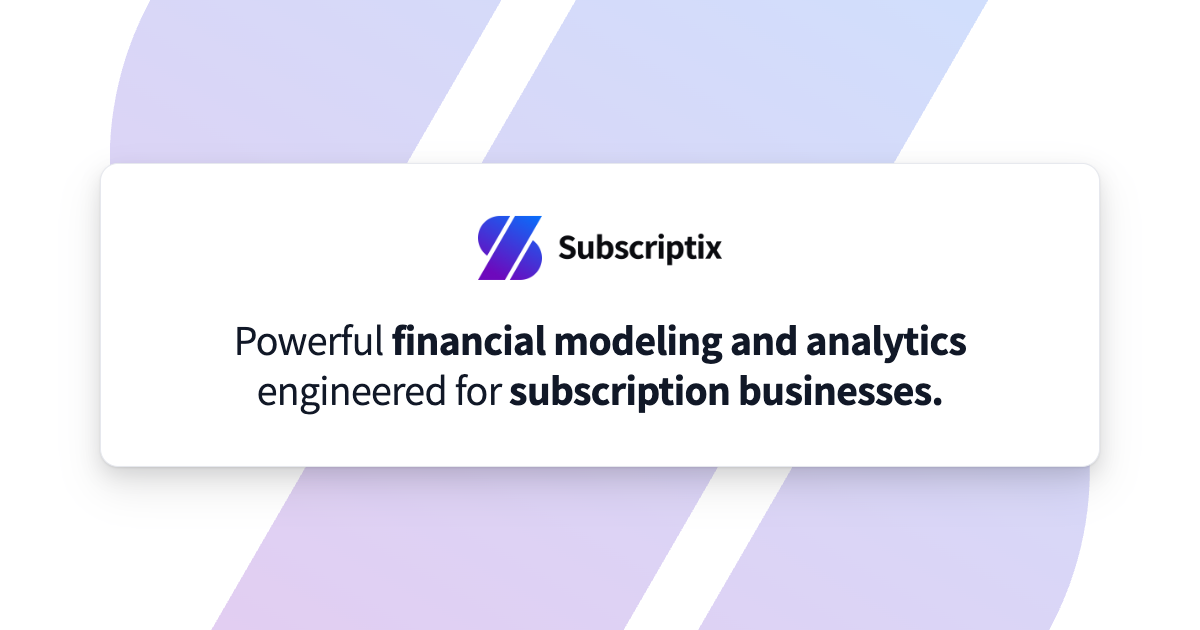
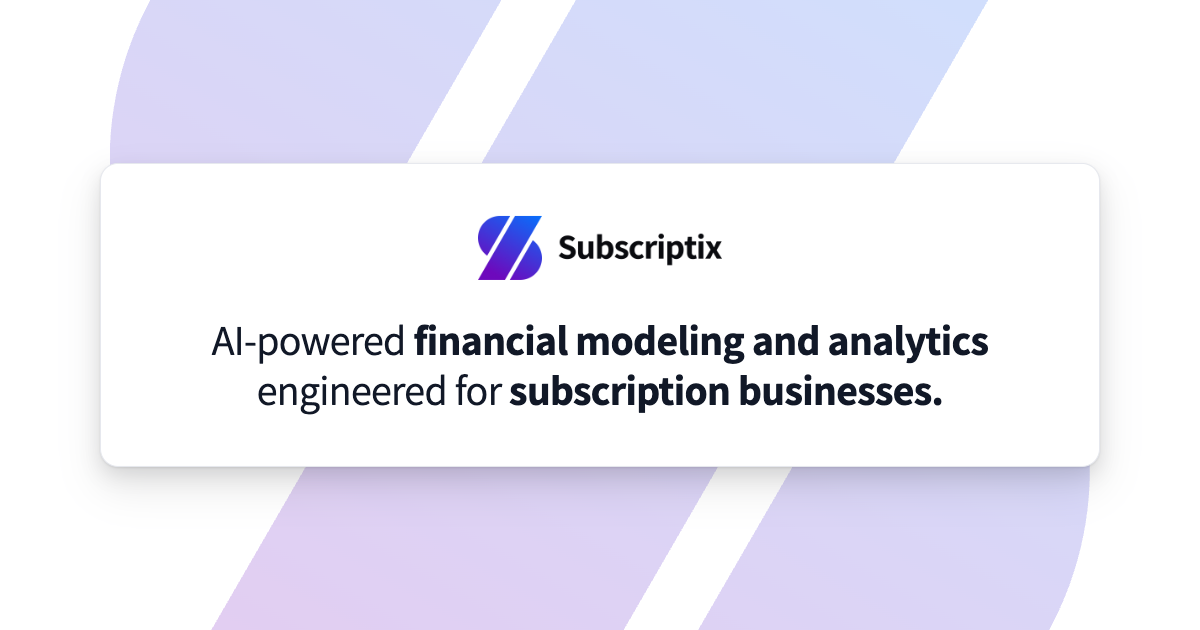
Share image: "AI-powered" headline, and keep its source in the repo
The link-preview image still showed the old "Powerful" hero. Re-rendered it
from the same mock, now saved as scripts/og-image.html with a render script,
so the next change doesn't depend on a temp folder. The og:image URL gets
?v=2 because Slack, LinkedIn and friends cache previews by URL.

Claude-Session: https://claude.ai/code/session_01A4RQuQGwzaZikytzKVxpAN

Changed region(s): [[0.1542, 0.5127, 0.8325, 0.6032]]

diff --git a/scripts/og-image.html b/scripts/og-image.html
@@ -1,0 +1,16 @@
+<!doctype html><!-- The link-preview image (public/og-image.png), 1200×630: the Welcome headline card over the faded mark. Keep the headline in step with src/scenes/Welcome.tsx, then run: node scripts/og-image.mjs -->
+<html><head><meta charset="utf-8">
+<link href="https://fonts.googleapis.com/css2?family=Assistant:wght@400;700&display=swap" rel="stylesheet">
+<style>
+  html,body{margin:0;width:1200px;height:630px;overflow:hidden;background:#fff;font-family:Assistant,sans-serif}
+  .mark{position:absolute;left:50%;top:50%;width:980px;transform:translate(-50%,-50%);opacity:.2}
+  .card{position:absolute;left:50%;top:50%;transform:translate(-50%,-50%);width:1000px;box-sizing:border-box;
+    background:#fff;border:1px solid #e6e8ee;border-radius:18px;padding:52px 60px;text-align:center;
+    box-shadow:0 1px 2px rgba(10,11,15,.09),0 8px 20px rgba(10,11,15,.105),0 20px 40px rgba(10,11,15,.105)}
+  .card img{height:64px;margin-bottom:30px}
+  h1{margin:0;font-size:42px;white-space:nowrap;line-height:1.18;font-weight:400;color:#111827;letter-spacing:-.015em}
+  h1 strong{font-weight:700}
+</style></head><body>
+<img class="mark" src="../public/mark.svg">
+<div class="card"><img src="../public/logo.png"><h1>AI-powered <strong>financial modeling and analytics</strong><br>engineered for <strong>subscription businesses.</strong></h1></div>
+</body></html>

diff --git a/CLAUDE.md b/CLAUDE.md
@@ -51,7 +51,7 @@ public/
 - The site is a client-rendered React app, so the build (`npm run build`) runs `scripts/prerender.mjs`: each scene is rendered to real HTML, so crawlers that don't run JavaScript (most AI crawlers) see the words. Features puts all eight panels in the HTML (hidden except the selected one) so every description is indexable.
 - Each page gets its own title, description, canonical URL (apex `https://subscriptix.com`), Open Graph + Twitter tags; the home page also carries JSON-LD (Organization + SoftwareApplication with `featureList`). Edit these in `src/seo.ts`.
 - Keep search terms accurate and in sentences — never hidden keyword lists (cloaking/spammy markup penalties). The visible purple term card on Welcome is where search terms belong.
-- To regenerate the share image, it was rendered from an HTML mock of the Welcome headline card at 1200×630 (Chrome screenshot).
+- **Share image** (`public/og-image.png`, the link preview in Slack/iMessage/LinkedIn): rendered from `scripts/og-image.html`, a mock of the Welcome headline card at 1200×630. When the hero changes, edit the mock's `<h1>` to match, run `node scripts/og-image.mjs`, and bump `?v=` on the `og:image` tag in `scripts/prerender.mjs` (previews are cached by URL). Currently `v=2` ("AI-powered", 2026-09-29).
 
 ## Brand
 - Brand guide PDF: `~/Documents/03 Active Professional/Software/Subscriptix/Design - General/Brand Elements/subcriptix/Subscriptix ❖ Brand Kit + UI.pdf`
